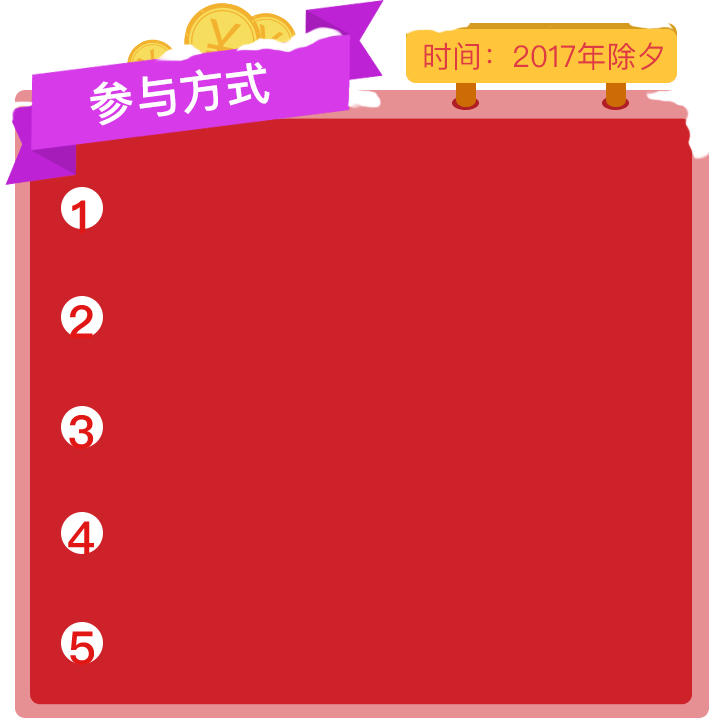
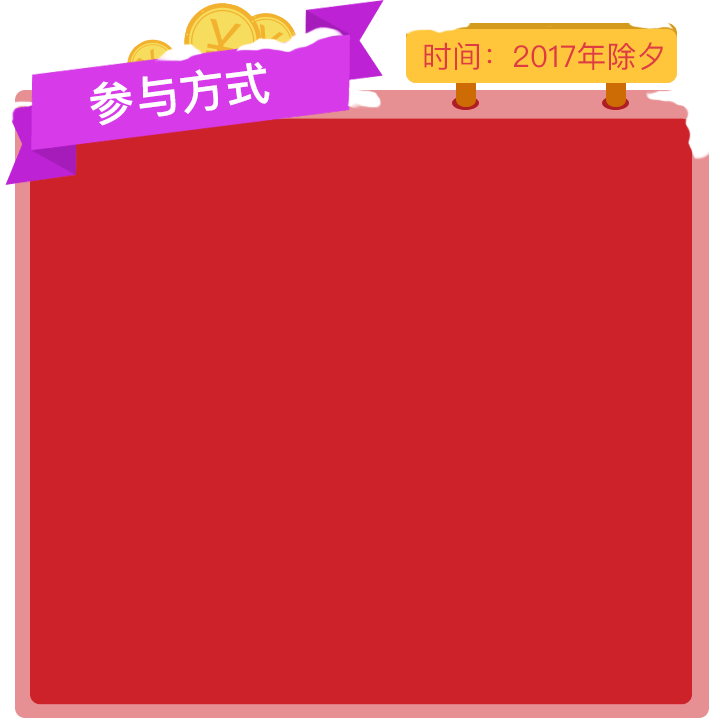
H5 bug 修改

diff --git a/app/src/main/assets/mq-packet.html b/app/src/main/assets/mq-packet.html
@@ -5,7 +5,7 @@
         <meta content="width=device-width, initial-scale=1.0, maximum-scale=1.0, user-scalable=no" name="viewport" /> 
         <meta name="keywords" content=" " /> 
         <meta name="description" content="" /> 
-        <title>秒钱理财再次携手腾讯QQ派送新年开运红包</title> 
+        <title>秒钱</title> 
         <link rel="stylesheet" type="text/css" href="css/layout.css" /> 
     </head> 
     <body>   
@@ -15,24 +15,24 @@
             <p class="desc desc-top">继2016年，400万+QQ用户领取秒钱红包后，秒钱将再次为全球亿万QQ用户奉上一场理财红包的盛宴。</p>
             <div class="join-way">
                 <ul>
-                    <li>登录手机QQ，在消息列表页，下拉刷新，<br>即有机会获取秒钱发出的888元理财红包。</li>
-                    <li>填写手机号领取红包，领取成功，红包会<br>存入QQ钱包的卡券中。</li>
-                    <li>下载秒钱APP，用领取红包手机号码注册、<br>登录后，在“我的红包”查看。</li>
-                    <li>红包可用于投资平台定期项目，获得更多<br>收益。</li>
-                    <li>活动期间，同一手机号只限领取一份红包。</li>
+                    <li><i class="icon1"></i>登录手机QQ，在消息列表页，下拉刷新，即有机会获取秒钱发出的888元理财红包。</li>
+                    <li><i class="icon2"></i>填写手机号领取红包，领取成功，红包会存入QQ钱包的卡券中。</li>
+                    <li><i class="icon3"></i>下载秒钱APP，用领取红包手机号码注册、登录后，在“我的红包”查看。</li>
+                    <li><i class="icon4"></i>红包可用于投资平台定期项目，获得更多收益。</li>
+                    <li><i class="icon5"></i>活动期间，同一手机号只限领取一份红包。</li>
                 </ul>
             </div>
             <div class="mq-qq-desc block-btn">
-                <p>秒钱是国资系互联网理财平台，隶属于拾财贷<br>金融集团。专注于融资租赁、保理、商票等对<br>公资产项目，通过对接央企、国企、上市公司<br>等优质资产项目，让财富实现保值增值。</p>
-                <a href="banner_miaoqian.html" class="mq-btn">了解更多</a>
+                <p>秒钱是国资系互联网理财平台，隶属于拾财贷金融集团。专注于融资租赁、保理、商票等对公资产项目，通过对接央企、国企、上市公司等优质资产项目，让财富实现保值增值。</p>
+                <a href="#" class="mq-btn">了解更多</a>
             </div>
             <div class="mq-packet-rules block-btn">
                 <p class="font-bold">红包总额888元</p>
-                <p>8元红包+50元红包+100元红包+210元红包+<br>520元红包。</p>
-                <a href="banner_rules.html" class="mq-btn">红包使用说明</a>
+                <p>8元红包+50元红包+100元红包+210元红包+520元红包。</p>
+                <a href="#" class="mq-btn">红包使用说明</a>
             </div>
             <div class="qq-product block-btn">
-                <a href="miaoqian_talk_one.html" class="mq-btn">了解更多精选项目</a>
+                <a href="#" class="mq-btn">了解更多精选项目</a>
             </div>
         </div>
         <script src="js/common.js"></script> 

diff --git a/app/src/main/assets/css/min.css b/app/src/main/assets/css/min.css
@@ -174,9 +174,9 @@ body,html{height:100%;background:#fafafa;font-size:14px}
 .bf-time{ position: relative; background: url(../img/banner_a1606.png) no-repeat center 0.5rem; background-size: 100%}
 .bf-time-hd{position: relative; z-index: 10;}
 .bf-time-line{ position: relative; z-index: 9; margin-top: -20px; padding-top: 0.8rem; background: url(../img/banner_a1608.png) repeat-y center; background-size: 100%;}
-.bf-time-year{ width: 1.18rem; height: 0.45rem; margin: 0 auto 0.2rem; line-height: 0.4rem; text-align: center; font-size: 0.28rem; color: #fff; background-color: #e8343d; border-radius: 0.1rem; border:0.06rem solid #fdc636;}
+.bf-time-year{ width: 1.18rem; height: 0.45rem; margin: 0 auto 0.2rem; line-height: 0.45rem; text-align: center; font-size: 0.28rem; color: #fff; background-color: #e8343d; border-radius: 0.1rem; border:0.06rem solid #fdc636;}
 .bf-thh{ position: relative;}
-.bf-th-wrap{display: inline-block; position: relative; padding: 0.1rem 0.2rem; background-color: #fdc636; border-radius: 0.06rem; font-size: 0.24rem; line-height: 0.38rem; color: #666}
+.bf-th-wrap{display: inline-block; position: relative; padding: 0.1rem 0.2rem; background-color: #fdc636; border-radius: 0.06rem; font-size: 0.24rem; font-weight: bold; line-height: 0.38rem; color: #666}
 .bf-th-wrap i{ position: absolute; top:0.1rem; width: 0.13rem; height: 0.2rem; background:url(../img/banner_a1605.png) no-repeat; background-size: cover}
 .bf-thh b{ position: absolute; top:0.36rem; left: 50%; width: 0.22rem; height: 0.22rem; margin-left: -0.11rem; background:url(../img/banner_a1609.png) no-repeat; background-size: 100%}
 .bf-time-history{ position: relative; max-width: 3rem; margin-bottom: 0.3rem;}

diff --git a/app/src/main/assets/css/layout.css b/app/src/main/assets/css/layout.css
@@ -80,12 +80,19 @@ input::-webkit-inner-spin-button{
     height: 8.08rem;
     margin: 0 auto;
 }
+.know-more .code-img img {
+    display: block;
+    width: 3.66rem;
+    height: 3.66rem;
+    margin: 0 auto;
+    padding-top: 2.6rem;
+}
 .know-more .weibo {
-    background: url(../img/weibo_code.png) no-repeat center center;
+    background: url(../img/weibo_bg.png) no-repeat center center;
     background-size: 100%;
 }
 .know-more .weixin {
-    background: url(../img/weixin_code.png) no-repeat center center;
+    background: url(../img/weixin_bg.png) no-repeat center center;
     background-size: 100%;
 }
 .know-more p {
@@ -505,12 +512,38 @@ input::-webkit-inner-spin-button{
     margin: 0.4rem auto 0;
 }
 .join-way ul {
-    padding: 1.8rem 0 0;
+    padding: 1.8rem 0.3rem 0 0.6rem;
 }
 .join-way li {
     font-size: 0.3rem;
     color: #fff;
-    padding: 0 0 0.3rem 1.2rem;
+    padding: 0 0 0.3rem 0.6rem;
+    position: relative;
+}
+.join-way li i {
+    display: block;
+    width: 0.42rem;
+    height: 0.45rem;
+    background: url(../img/join_way_num.png) no-repeat center center;
+    background-size: 100%;
+    position: absolute;
+    left: 0;
+    top: 0;
+}
+.join-way li .icon1 {
+    background-position: 0 0;
+}
+.join-way li .icon2 {
+    background-position: 0 -0.45rem;
+}
+.join-way li .icon3 {
+    background-position: 0 -0.9rem;
+}
+.join-way li .icon4 {
+    background-position: 0 -1.35rem;
+}
+.join-way li .icon5 {
+    background-position: 0 -1.8rem;
 }
 .mq-packet .mq-qq-desc {
     background: url(../img/mq_desc.png) no-repeat center center;
